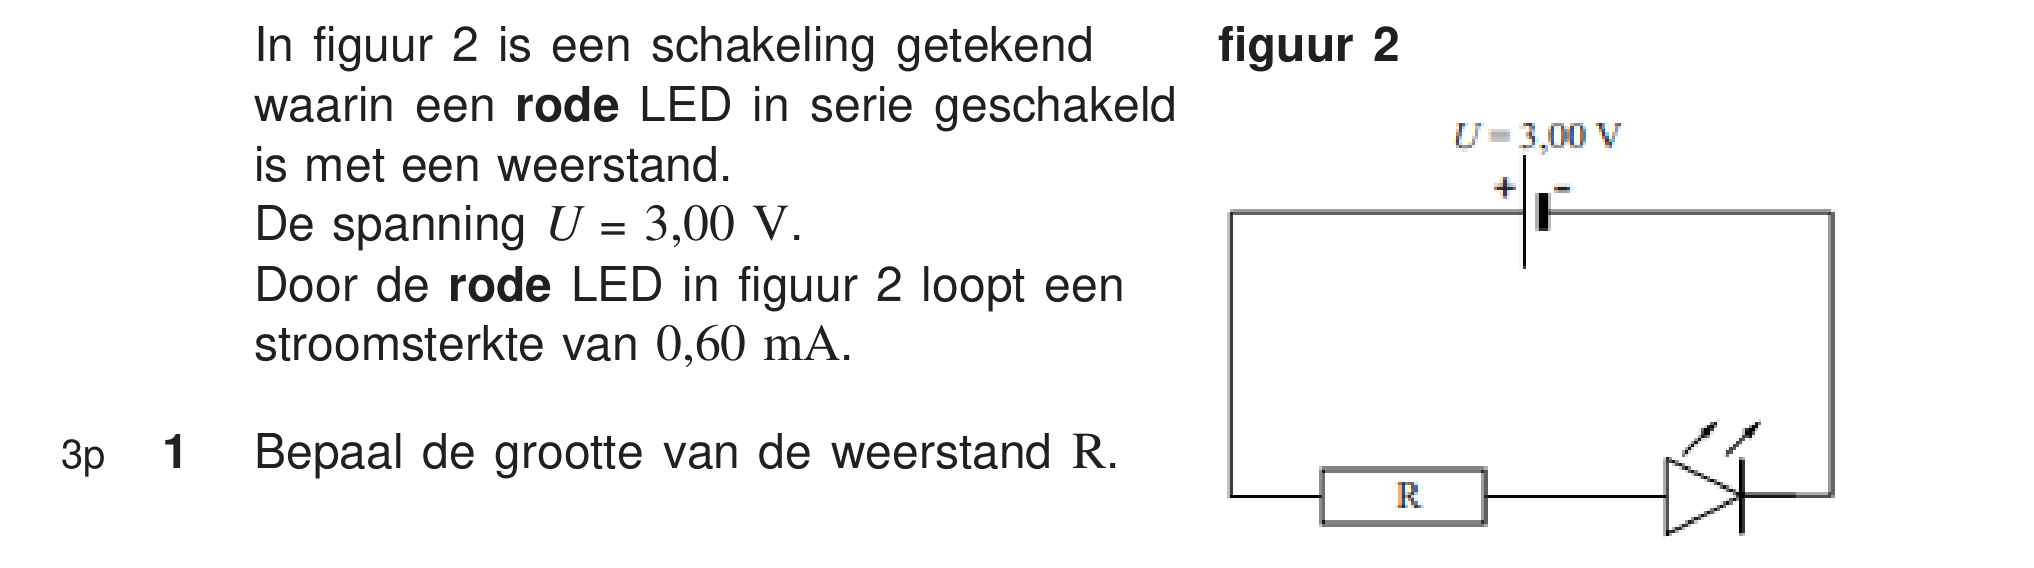
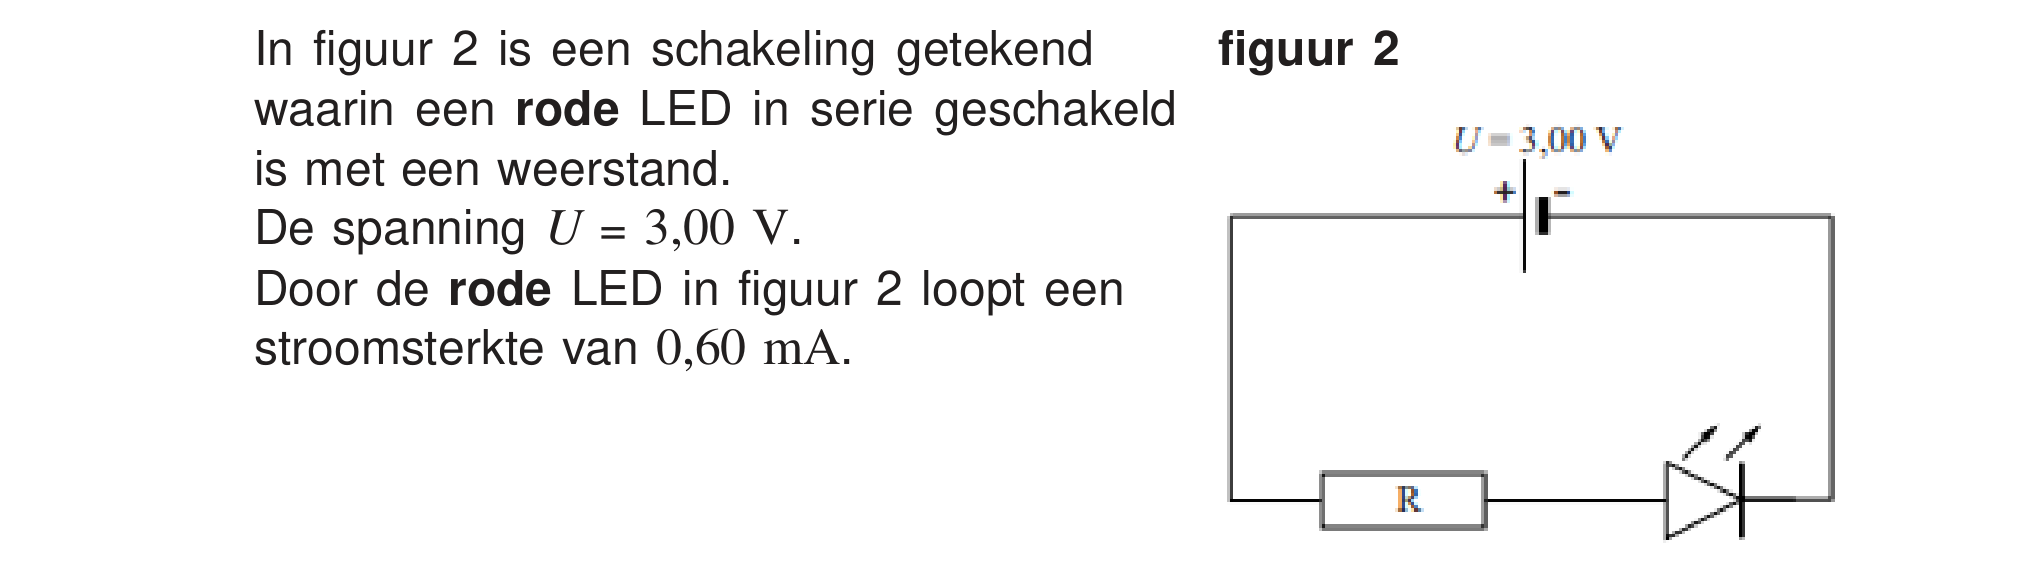
Modus A: crop layout tool + Gekleurde LED's images regenerated
Voegt tools/crop_layout.py toe (nieuwe crop-workflow: één gedeelde
x-window per opgave via get_opgave_x_window, plus whiteout van
buurkolom-content via get_foreign_boxes/render_crop, in plaats van
get_shared_x_bounds()/get_column_groups()).

Regenereert met deze workflow de drie afbeeldingen van opgave
"Gekleurde LED's" (VWO-NAT-16-I-O.pdf) rond figuur 2: context2,
vraag1 en vraag2. Dit lost twee bugs op:
- vraag1 kreeg voorheen een smallere eigen breedte dan de rest van
  de opgave, waardoor de tekst te groot werd weergegeven.
- context2 toonde per ongeluk ook de tekst van vraag 1 (dezelfde
  tekstkolom liep door tot onder figuur 2).
context2 is opgebouwd uit twee gestitchte deelcrops zodat de volledige
hoogte van figuur 2 zichtbaar blijft zonder vraag 1's tekst mee te nemen.

Dit is een image-only wijziging: geen database-mutaties. Alle tekst,
question_text, keywords, topics en question_summary voor deze opgave
blijven ongewijzigd; er is geen SQL uitgevoerd.

Claude-Session: https://claude.ai/code/session_01Dpy3BHW5kZnc1Qx8is6nbo

diff --git a/tools/crop_layout.py b/tools/crop_layout.py
@@ -1,0 +1,158 @@
+"""One shared x-window per opgave + whiteout of neighbouring-column content.
+
+Replaces the get_shared_x_bounds() + get_column_groups() combination in
+crop_check.py. Those two fight each other: get_column_groups() splits
+side-by-side crops into separate width groups to stop a vraag crop from
+capturing its neighbouring figure, but a group containing only one narrow
+crop then gets its own narrow shared width -- and since every crop is later
+displayed scaled to the same container width, that narrow crop is upscaled
+far more than the rest, so its text renders visibly larger (seen on
+VWO-NAT-16-I-O.pdf, opgave "Gekleurde LED's", vraag 1).
+
+This module solves both problems separately instead of with one lever:
+
+  - WIDTH is always identical for every crop in the opgave (get_opgave_
+    x_window), so the upscale factor -- and therefore the on-screen text
+    size and the left alignment of the text / vraagnummer / puntenkolom --
+    is identical everywhere. This is what makes scheikunde opgaven look
+    right today: single column, so the shared bounds happen to be constant.
+
+  - DUPLICATION is fixed after rendering, by painting white over any block
+    that falls inside the crop rectangle but belongs to a different column
+    (whiteout_foreign_content). No narrowing, so no scale change.
+
+Usage:
+    import fitz
+    from crop_check import get_blocks, get_x_bounds
+    from drawing_bounds import get_drawing_boxes, cluster_drawing_boxes
+    from crop_layout import get_opgave_x_window, get_foreign_boxes, render_crop
+
+    # 1. plan every crop of the opgave first, recording its OWN content
+    #    x-range (from get_x_bounds on that crop's y-range alone)
+    planned = [
+        {"page": 0, "y0": 735, "y1": 800, "content_x0": 165, "content_x1": 510,
+         "name": "gekleurde-leds-context2"},
+        {"page": 0, "y0": 838, "y1": 856, "content_x0": 88,  "content_x1": 452,
+         "name": "gekleurde-leds-vraag1"},
+        ...
+    ]
+
+    # 2. one window for the whole opgave (per page orientation group)
+    window = get_opgave_x_window(planned, page_width=page.rect.width)
+
+    # 3. render each crop at that same window, wiping the other column
+    for crop in planned:
+        page = doc[crop["page"]]
+        crop["foreign_boxes"] = get_foreign_boxes(page, crop, window)
+        img = render_crop(page, crop, window)
+        img.save(f"output/images/{crop['name']}.png")
+"""
+
+import io
+
+import fitz
+from PIL import Image, ImageDraw
+
+from crop_check import get_blocks
+from drawing_bounds import get_drawing_boxes, cluster_drawing_boxes
+
+
+def get_opgave_x_window(planned, page_width=None, margin=15):
+    """Return ONE (x0, x1) to use for every crop in the opgave.
+
+    planned: list of dicts with at least "content_x0" and "content_x1" --
+    the crop's own tight content bounds (from crop_check.get_x_bounds on
+    that crop's y-range), collected BEFORE rendering anything.
+
+    Unlike get_shared_x_bounds() this is never split into groups. Every
+    crop gets the same physical width in points, so every crop is upscaled
+    by the same factor when displayed, so text size and left alignment stay
+    identical across the whole opgave.
+
+    Call once per page-orientation group (portrait vs. landscape
+    uitwerkbijlage pages) -- those are physically different page widths.
+    """
+    x0 = min(p["content_x0"] for p in planned) - margin
+    x1 = max(p["content_x1"] for p in planned) + margin
+    x0 = max(0, x0)
+    if page_width is not None:
+        x1 = min(page_width, x1)
+    return (x0, x1)
+
+
+def get_foreign_boxes(page, crop, window, gap=1.0):
+    """Return bounding boxes of content that lands inside this crop's
+    rectangle but belongs to a DIFFERENT column than the crop's own
+    content -- i.e. the neighbouring figure/text that the shared window
+    sweeps in. These get painted white by render_crop().
+
+    A block counts as foreign when its x-range does not overlap the crop's
+    own content x-range at all (bx1 <= content_x0 or bx0 >= content_x1).
+    Anything overlapping the crop's own column is left alone, so a wrapped
+    line or a label sitting just left of the text is never wiped.
+    """
+    own_x0 = crop["content_x0"]
+    own_x1 = crop["content_x1"]
+    y0, y1 = crop["y0"], crop["y1"]
+    wx0, wx1 = window
+
+    candidates = [(b[0], b[1], b[2], b[3]) for b in get_blocks(page)]
+    candidates += cluster_drawing_boxes(get_drawing_boxes(page))
+
+    foreign = []
+    for bx0, by0, bx1, by1 in candidates:
+        if by1 <= y0 or by0 >= y1:
+            continue  # not vertically inside this crop at all
+        if bx1 <= wx0 or bx0 >= wx1:
+            continue  # not inside the rendered window at all
+        in_own_column = bx0 < own_x1 - gap and bx1 > own_x0 + gap
+        if in_own_column:
+            continue
+        foreign.append((bx0, by0, bx1, by1))
+    return foreign
+
+
+def filter_own_column_drawings(drawing_boxes, content_x0, content_x1, gap=1.0):
+    """Return only the drawing boxes that belong to the crop's own column.
+
+    Pass the result into drawing_bounds.get_full_y_bounds() instead of the
+    raw page drawing boxes. Without this filter, a figure sitting BESIDE
+    the crop (e.g. figuur 2 on VWO-NAT-16-I-O.pdf page 1, whose schematic
+    extends lower than the "3p 1 Bepaal ..." line next to it) stretches the
+    crop's y-range downwards to swallow the whole figure -- producing a
+    crop that is both far too tall and a duplicate of the context block
+    above it.
+    """
+    return [
+        (dx0, dy0, dx1, dy1)
+        for dx0, dy0, dx1, dy1 in drawing_boxes
+        if dx0 < content_x1 - gap and dx1 > content_x0 + gap
+    ]
+
+
+def render_crop(page, crop, window, zoom=3, pad=2.0):
+    """Render one crop at the shared window and white out foreign content.
+
+    crop needs: y0, y1, content_x0, content_x1, and foreign_boxes (from
+    get_foreign_boxes). Returns a PIL Image.
+
+    pad: extra points painted around each foreign box, so no antialiased
+    edge pixels of the neighbouring figure survive at the seam.
+    """
+    wx0, wx1 = window
+    y0, y1 = crop["y0"], crop["y1"]
+
+    clip = fitz.Rect(wx0, y0, wx1, y1)
+    pix = page.get_pixmap(matrix=fitz.Matrix(zoom, zoom), clip=clip)
+    img = Image.open(io.BytesIO(pix.tobytes("png"))).convert("RGB")
+
+    draw = ImageDraw.Draw(img)
+    for bx0, by0, bx1, by1 in crop.get("foreign_boxes", []):
+        px0 = max(0, (bx0 - pad - wx0) * zoom)
+        py0 = max(0, (by0 - pad - y0) * zoom)
+        px1 = min(img.width, (bx1 + pad - wx0) * zoom)
+        py1 = min(img.height, (by1 + pad - y0) * zoom)
+        if px1 > px0 and py1 > py0:
+            draw.rectangle([px0, py0, px1, py1], fill="white")
+
+    return img
